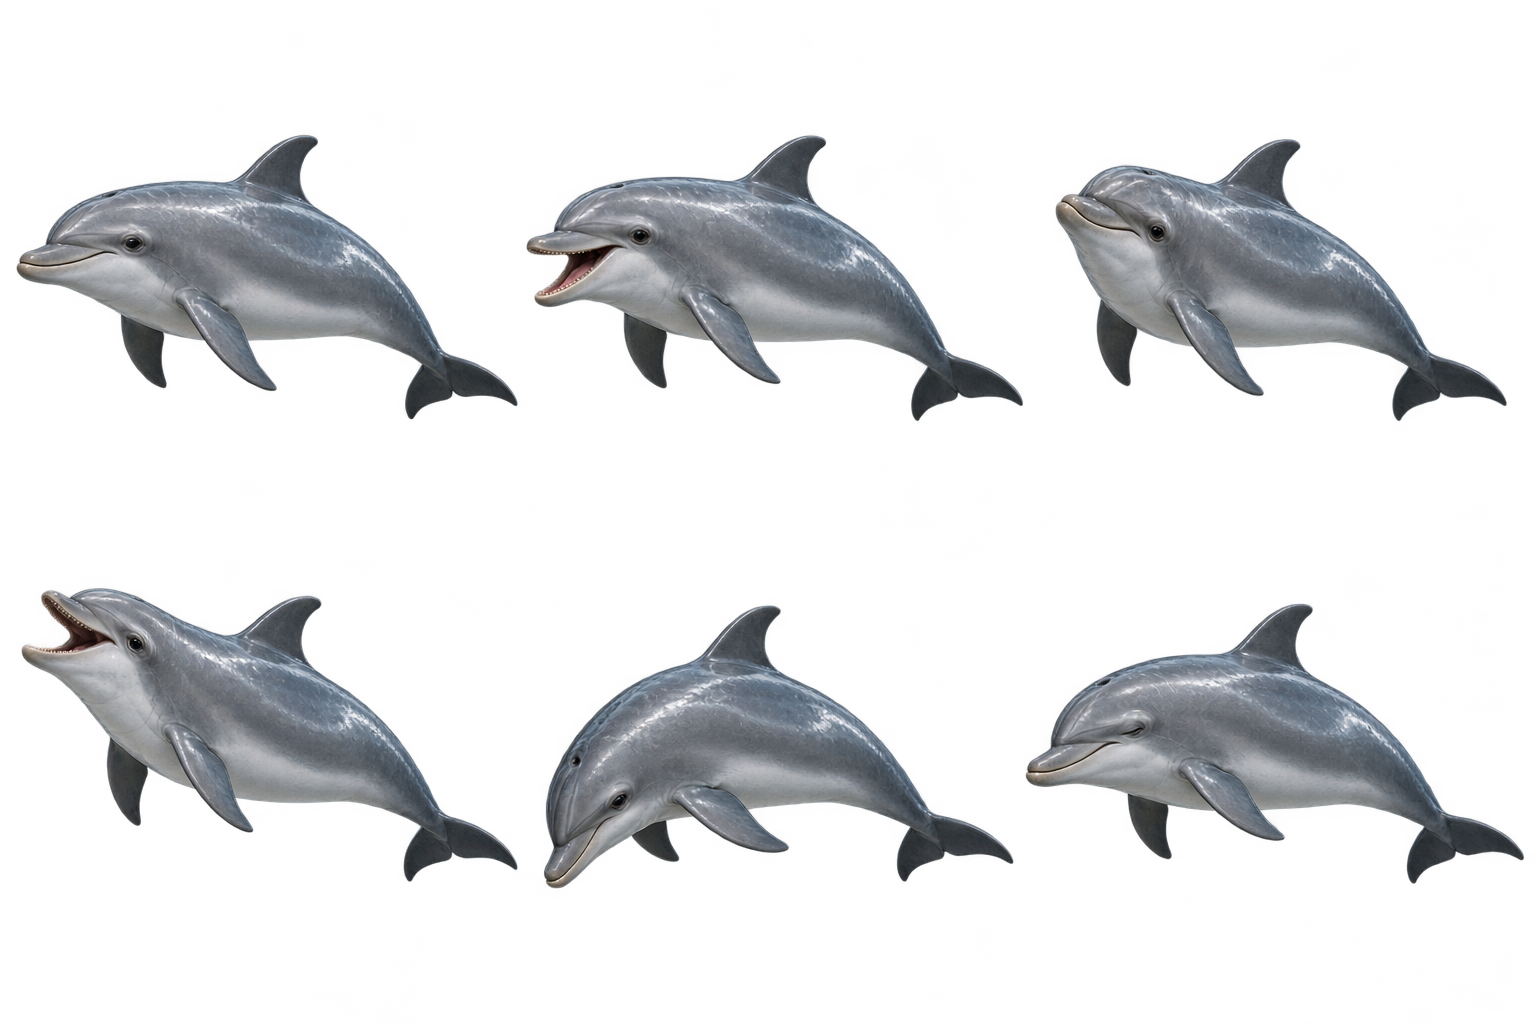
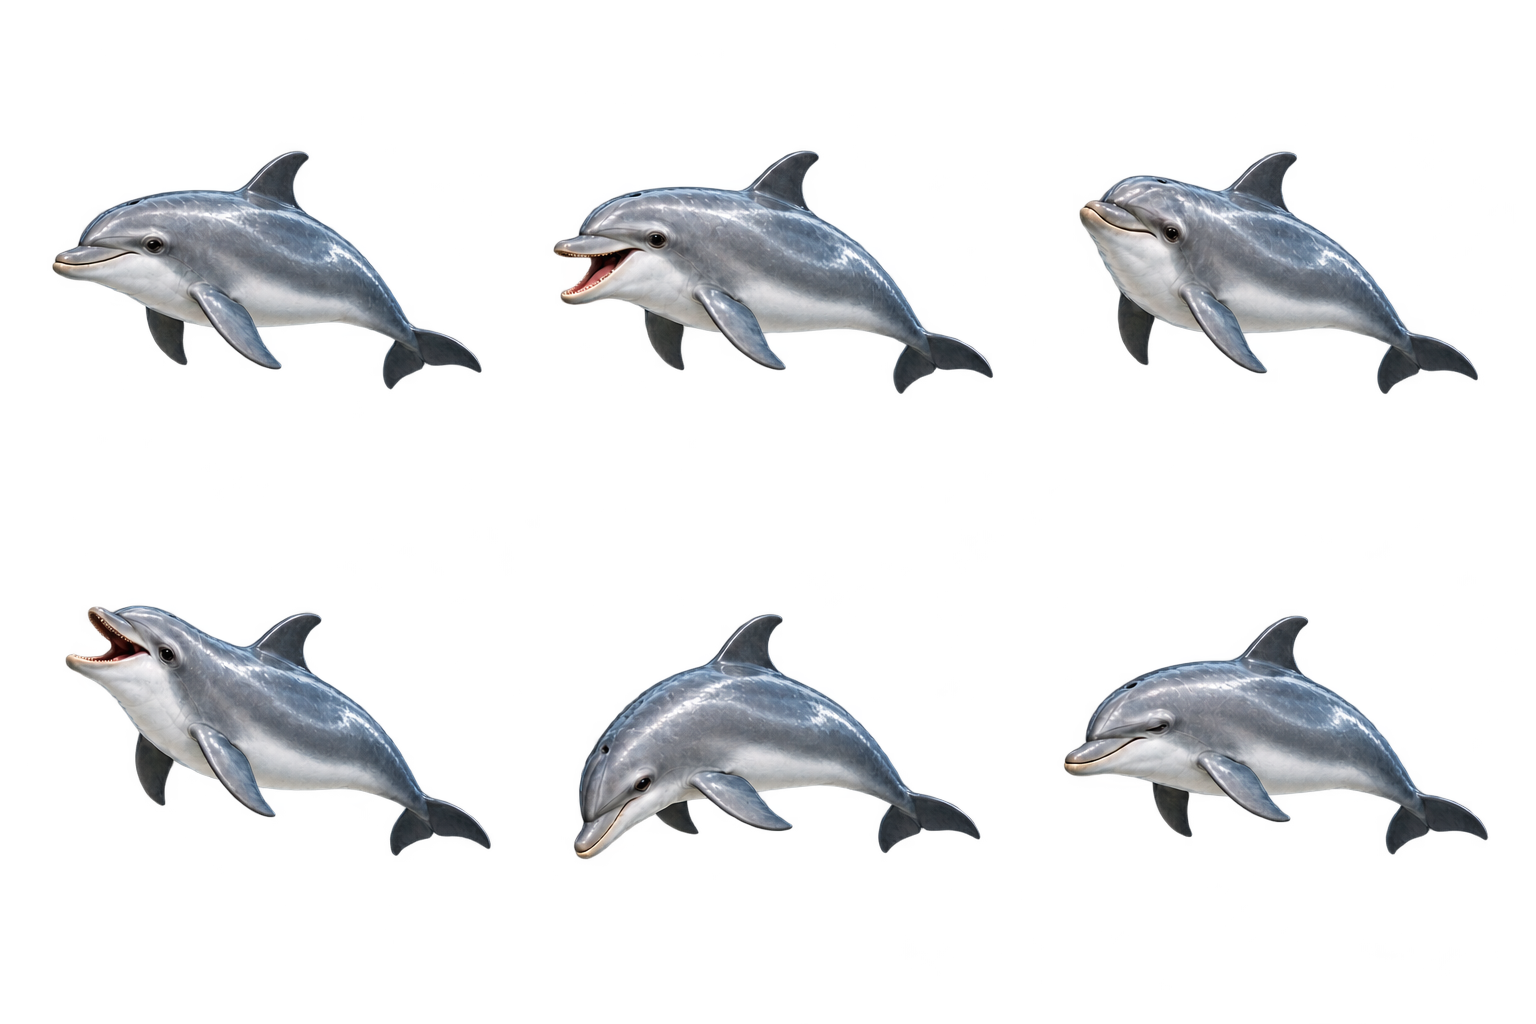
Verify native care rendering and bundle all five companion profiles

diff --git a/Tests/ByteTests/CareModelTests.swift b/Tests/ByteTests/CareModelTests.swift
@@ -1,4 +1,6 @@
 import XCTest
+import SwiftUI
+import AppKit
 @testable import Byte
 
 private final class CareTestKeys: APIKeyStoring {
@@ -31,6 +33,33 @@ private struct CareFixture {
 }
 
 final class CareModelTests: XCTestCase {
+    @MainActor
+    func testCareDashboardRendersForEveryCompanion() throws {
+        let f = try CareFixture(); defer { f.clean() }
+        let model = f.model()
+        for companion in Companion.allCases {
+            XCTAssertTrue(model.selectCompanion(companion))
+            let rgb = companion.tint
+            for scheme in [ColorScheme.light, .dark] {
+                let view = CareView(model: model, accent: Color(red: rgb.0, green: rgb.1, blue: rgb.2),
+                                    mood: .happy, phase: 0, isBusy: false, onCare: { _ in })
+                    .environment(\.colorScheme, scheme)
+                let renderer = ImageRenderer(content: view)
+                renderer.scale = 2
+                let image = try XCTUnwrap(renderer.cgImage, "Couldn't render \(companion.name)")
+                XCTAssertEqual(image.width, 740)
+                XCTAssertEqual(image.height, 1240)
+                if let directory = ProcessInfo.processInfo.environment["BYTE_SNAPSHOT_DIRECTORY"] {
+                    let url = URL(fileURLWithPath: directory)
+                    try FileManager.default.createDirectory(at: url, withIntermediateDirectories: true)
+                    let file = url.appendingPathComponent("\(companion.rawValue)-\(scheme == .dark ? "dark" : "light").png")
+                    let bitmap = NSBitmapImageRep(cgImage: image)
+                    try XCTUnwrap(bitmap.representation(using: .png, properties: [:])).write(to: file)
+                }
+            }
+        }
+    }
+
     @MainActor
     func testSwitchingPreservesIndependentNeedsAndRestoresSelection() throws {
         let f = try CareFixture(); defer { f.clean() }

diff --git a/Sources/Byte/ByteSprite.swift b/Sources/Byte/ByteSprite.swift
@@ -47,8 +47,19 @@ enum CompanionArtwork {
             let w = atlas.width / 3, h = atlas.height / 2
             result[companion] = ByteSprite.Mood.allCases.compactMap { mood in
                 // Discard the empty top/bottom gutter, keeping all poses on the same canvas.
+                // The second row's generated poses sit slightly higher. Match the
+                // standing baseline so expressions don't jump during a bite or sip.
+                let lowerRowInset: Int
+                switch companion {
+                case .trex: lowerRowInset = 9
+                case .dolphin: lowerRowInset = -7
+                case .dog: lowerRowInset = -7
+                case .cat: lowerRowInset = 18
+                case .panda: lowerRowInset = 10
+                }
+                let row = mood.rawValue / 3
                 let rect = CGRect(x: (mood.rawValue % 3) * w,
-                                  y: (mood.rawValue / 3) * h + 40,
+                                  y: row * h + (row == 0 ? 40 : lowerRowInset),
                                   width: w, height: h - 70)
                 return atlas.cropping(to: rect)
             }

diff --git a/README.md b/README.md
@@ -20,7 +20,7 @@
 
 ---
 
-Byte is a native macOS companion with two sides: a pixel-art T-rex who needs a snack, a drink, and a little attention; and a compact Claude or ChatGPT panel for everyday questions, images, and web research. He lives just below the notch, reacts while he thinks, and remembers where you leave him.
+Byte is a native macOS companion app with five lifelike friends to choose from, each with their own food, hydration, play, and rest routines. They live just below the notch, react while thinking, and remember where you leave them. A compact Claude or ChatGPT panel handles everyday questions, images, and web research.
 
 Click to chat. Hover to care. Drag to make yourself at home.
 
@@ -33,9 +33,9 @@ Click to chat. Hover to care. Drag to make yourself at home.
 
 ### 🦖 A desktop companion with a personality
 
-- **Pixel-art T-rex** with happy, neutral, and thinking expressions, idle movement, and little tricks: stomps, rolls, wiggles, and greetings.
-- **A pet care loop** with hunger, thirst, energy, and happiness. Feed him, give him water, play, or let him rest; needs and pet age persist between launches.
-- **Animated care scenes** with tiny props and optional synthesized stomp sounds.
+- **Five lifelike companions** with neutral, happy, thinking, eating, drinking, and sleeping expressions. Byte’s existing tricks, smiles, wiggles, and greetings remain, with distinct care movements for each animal.
+- **A modern care dashboard** with fullness, hydration (freshness for Ripple), energy, joy, suggested actions, and recent moments. Each companion keeps separate needs, age, care history, and rest progress.
+- **Species-specific care** with two foods, two play activities, water or splash refreshes, affection, and timed naps. Smooth props and quiet synthesized cues replace the pixel objects. Reduce Motion keeps care functional with static expressions.
 - **Optional check-ins** and adjustable puns, from off to lots.
 - **A home under the notch**, or wherever you drag him. His pinned position is remembered; a right-click resets it.
 
@@ -104,7 +104,7 @@ From the repository directory:
 open Byte.app
 ```
 
-The script builds the release executable and assembles `Byte.app` with its icon and macOS bundle metadata. Move the app into **Applications** for everyday use, then enable **Launch at login** in Byte's Settings if desired.
+The script builds the release executable and assembles `Byte.app` with its icon, all companion artwork, and macOS bundle metadata. Move the app into **Applications** for everyday use, then enable **Launch at login** in Byte's Settings if desired.
 
 This is a locally built, **unsigned** bundle. If macOS asks for confirmation, use Finder's **Open** action and follow the system prompts. Developer ID signing and notarized distribution are on the [roadmap](#roadmap).
 
@@ -128,11 +128,26 @@ These commands use **Bash**; run `bash` first if your terminal uses another shel
 <a id="meet-byte"></a>
 ## 🎾 Meet Byte
 
+Choose a friend from **Care**, available on the hover bar or right-click menu. Byte is selected on existing installations, and your original `pet.json` stays intact. Each friend’s needs continue to advance with elapsed time when you return to them.
+
+| Companion | Food & treat | Hydration / refresh | Play & gentle activity | Rest |
+| --- | --- | --- | --- | --- |
+| **Byte · T-Rex** | Prime bites · turkey morsels | Watering hole | Stomp chase · scent trail | 5-minute nest nap |
+| **Ripple · dolphin** | Fish school · squid snack | Splash refresh for skin freshness; fish also restores moisture | Hoop dive · bubble chase | 4-minute quiet drift |
+| **Biscuit · dog** | Dinner bowl · crunchy biscuit | Refilled water bowl | Fetch · sniff safari | 5-minute cozy nap |
+| **Miso · cat** | Salmon supper · chicken nibbles | Fresh drinking fountain | Feather pounce · sunbeam chase | 3-minute catnap |
+| **Bao · panda** | Bamboo buffet · apple slices | Forest spring | Bamboo roll · leaf puzzle | 6-minute bamboo snooze |
+
+Food and water replenish needs up to 100%; play uses energy. Hungry, thirsty, or exhausted friends ask for care before energetic games. Rest recovers energy over time, including while the app is closed; **Wake gently** keeps only the energy already recovered. These are playful virtual-pet routines. Care works locally and never requires AI credits.
+
+The quick controls and dashboard run the same animations and award care once at the action’s payoff. Switching companions is paused during care or a streaming reply. The chat persona changes with your friend; the conversation and AI connection stay shared across the app.
+
+
 | Action | What happens |
 | --- | --- |
 | **Click Byte** | Open or close chat |
-| **Hover over Byte** | Reveal quick feed, water, and play controls |
-| **Open the care panel** | See needs and pet age; feed, water, play, or rest |
+| **Hover over your companion** | Reveal quick feed, water/splash, play, rest/wake, and Care controls |
+| **Open Care** | Choose a companion; see needs, food choices, activities, rest progress, and recent care |
 | **Drag Byte** | Move him and remember the new position |
 | **Type, then Return** | Send a question |
 | **Drop or paste an image** | Attach it to the next question |
@@ -191,7 +206,8 @@ Byte stores conversations, pet state, and attachments under `~/.config/byte`:
 ```text
 ~/.config/byte/
 ├── history.json                 # Current conversation
-├── pet.json                     # Needs, age, and pet state
+├── pet.json                     # Byte’s original needs, age, rest, and care history
+├── pet-{animal}.json            # Separate dolphin, dog, cat, and panda state
 ├── archives/
 │   └── chat-<timestamp>-<UUID>.json
 ├── images/
@@ -270,7 +286,7 @@ swift test
 plutil -lint Byte.app/Contents/Info.plist
 ```
 
-The [macOS workflow](.github/workflows/ci.yml) runs the same sequence. All **51 regression tests** passed on macOS 14 with Swift 5.10, along with the debug build, release bundle, and plist validation. Coverage includes request options, usage, persistence, archives, key migration, images, interrupted streams, cancellation, citations, and link handling, plus ChatGPT callback validation, identity signatures/claims, account separation, coordinated token rotation, sign-out during refresh, failed-save recovery, catalog retry, complete loopback sign-in and expired-code recovery, plan limits, and request contracts. Tests use temporary directories, stubbed HTTP streams, and in-memory credential stores; they do not make live provider calls or use your real Keychain.
+The [macOS workflow](.github/workflows/ci.yml) runs the same sequence. The original **51 regression tests** passed on macOS 14 with Swift 5.10. Companion regression tests add legacy-save migration, independent care histories, species-specific needs, elapsed naps, cancellation and duplicate-action protection, corrupted-save preservation, bundled artwork, and light/dark native render checks. Coverage includes request options, usage, persistence, archives, key migration, images, interrupted streams, cancellation, citations, and link handling, plus ChatGPT callback validation, identity signatures/claims, account separation, coordinated token rotation, sign-out during refresh, failed-save recovery, catalog retry, complete loopback sign-in and expired-code recovery, plan limits, and request contracts. Tests use temporary directories, stubbed HTTP streams, and in-memory credential stores; they do not make live provider calls or use your real Keychain.
 
 See the [passing native run](https://github.com/ronniekai999/byte/actions/runs/38094130147) and [readiness review](docs/CODE_REVIEW.md#readiness-review--october-10-2026) for the evidence and hands-on test steps. Live provider sign-in, real Keychain prompts, Login Items approval, and UI/audio behavior remain unverified.
 
@@ -287,7 +303,9 @@ See the [passing native run](https://github.com/ronniekai999/byte/actions/runs/3
 | [OAuthLoopbackListener.swift](Sources/Byte/OAuthLoopbackListener.swift) | Temporary local OAuth callback listener |
 | [ChatGPTRequest.swift](Sources/Byte/ChatGPTRequest.swift) | Subscription request contract and Responses stream events |
 | [ByteView.swift](Sources/Byte/ByteView.swift) | Pet interaction, chat, Markdown, settings, and archives |
-| [ByteSprite.swift](Sources/Byte/ByteSprite.swift) · [Props.swift](Sources/Byte/Props.swift) | Pixel-art character and care props |
+| [ByteSprite.swift](Sources/Byte/ByteSprite.swift) · [Props.swift](Sources/Byte/Props.swift) | Cached lifelike expressions and smooth care objects |
+| [Companion.swift](Sources/Byte/Companion.swift) · [PetCare.swift](Sources/Byte/PetCare.swift) | Species profiles and elapsed-time care simulation |
+| [CareView.swift](Sources/Byte/CareView.swift) | Companion selection, needs, and care dashboard |
 | [Quips.swift](Sources/Byte/Quips.swift) · [Sound.swift](Sources/Byte/Sound.swift) | Personality and synthesized audio |
 | [WebLinks.swift](Sources/Byte/WebLinks.swift) | HTTP(S)-only generated link handling |
 
